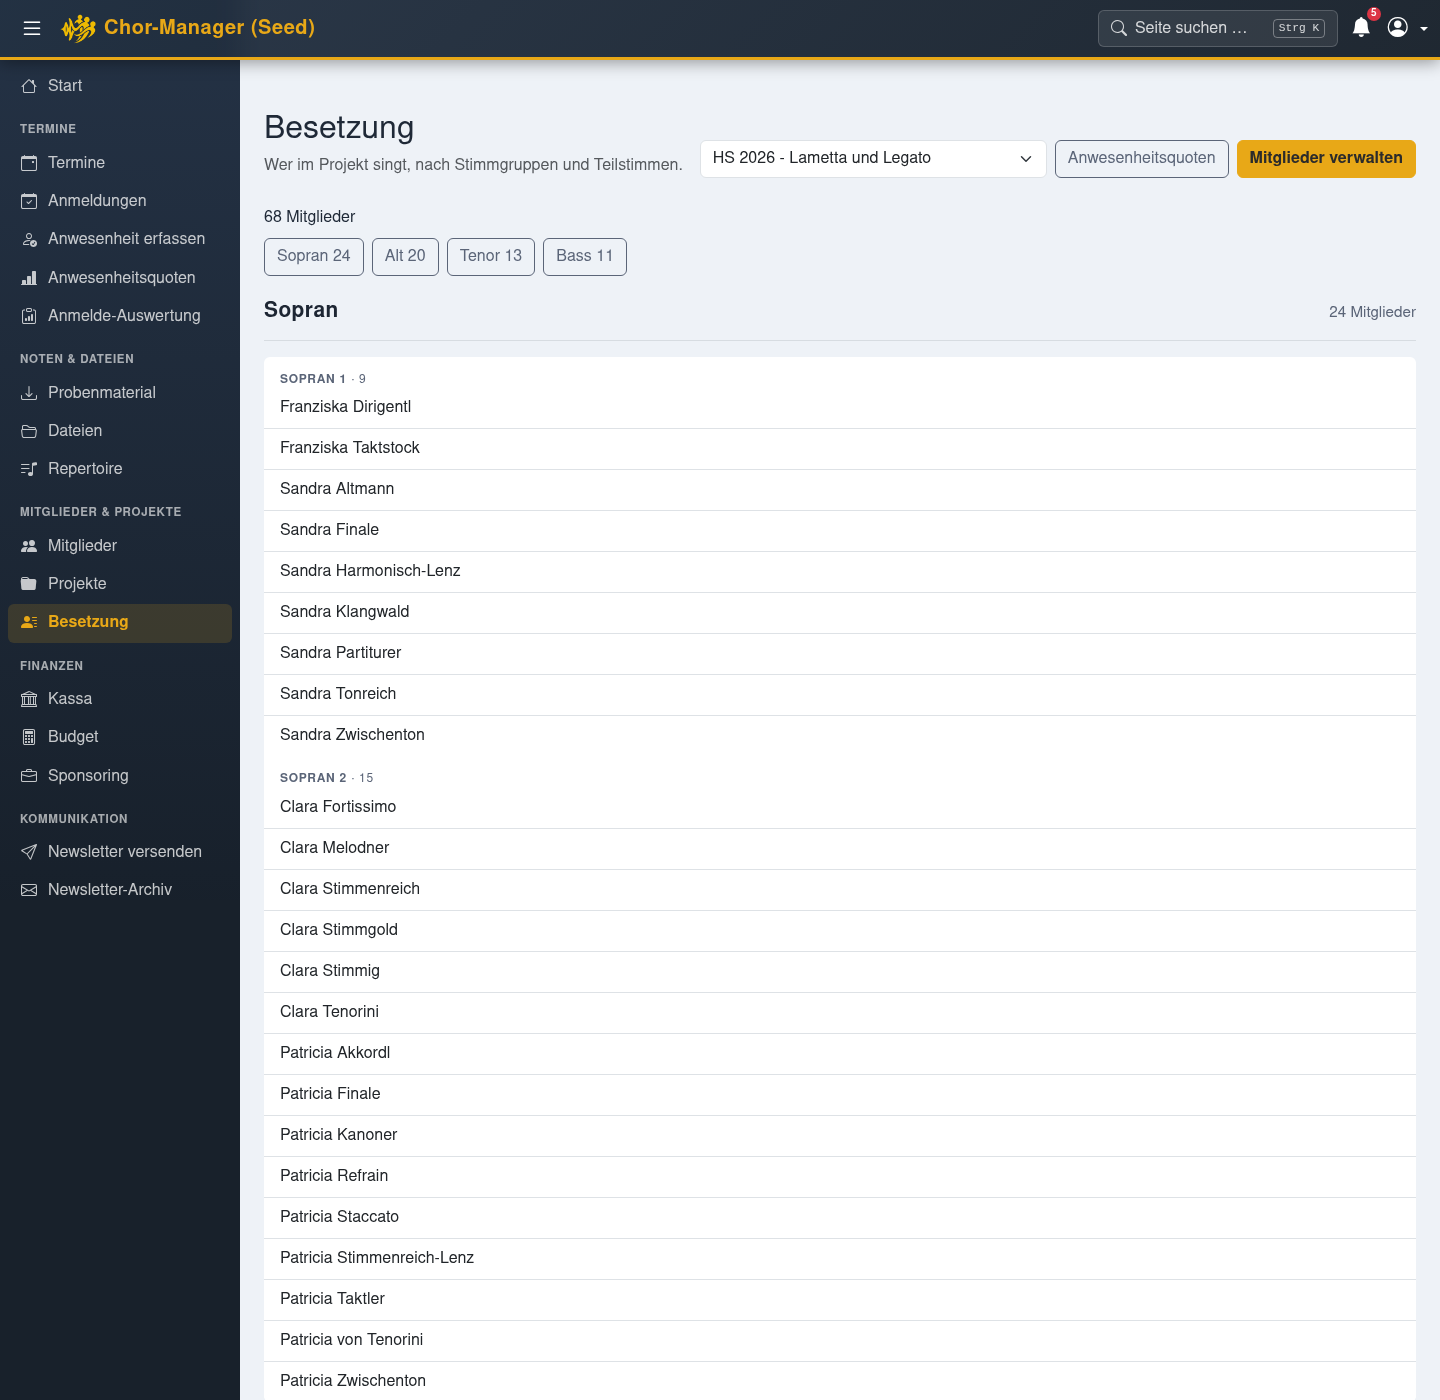
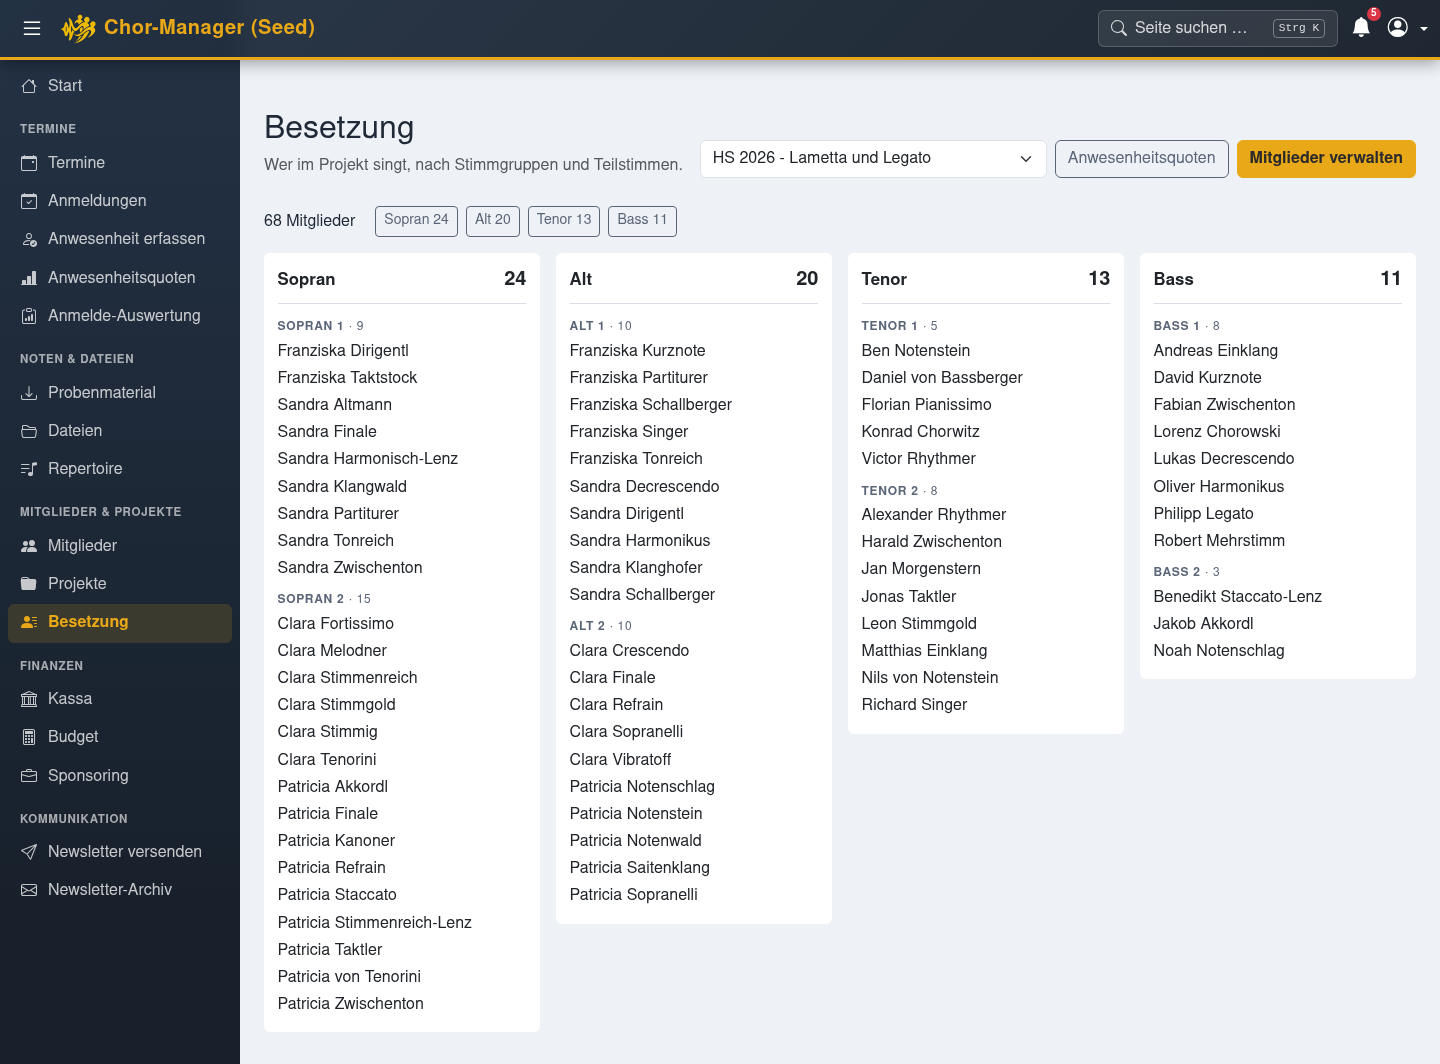
feat(evaluations): Besetzung als Plan mit einer Spalte je Stimmgruppe
Die Besetzung stapelte die Stimmgruppen untereinander, jeder Name war eine
gerahmte Listenzeile von rund 48 px. Bei 68 Mitgliedern im Seed-Projekt
war das eine lange Scroll-Strecke, und die Frage, die die Seite
beantworten soll - wie ist der Chor besetzt, stimmt die Balance? - ließ
sich nur durch Hinunterscrollen und Mitzählen beantworten.

Jetzt ist die Seite ein Besetzungsplan: jede Stimmgruppe eine Spalte, am
Laptop Sopran, Alt, Tenor und Bass nebeneinander (vier Spalten zu 276 px
auf 1152 px Inhaltsbreite, im Browser gemessen), am Telefon zwei. Der
Spaltenkopf trägt den Namen und groß die Anzahl, die Namen stehen als
dichte Liste ohne Trennrahmen, Teilstimmen bleiben kleine
Zwischenüberschriften. Hat eine Stimmgruppe keine Teilstimmen, entfällt
die einzige Überschrift "Ohne Teilstimme". Summe und Sprunglinks stehen
in einer Zeile über dem Plan.

Das Raster nutzt auto-fit statt auto-fill: Mit auto-fill blieb neben den
vier Spalten eine leere fünfte Spur stehen. Verworfen wurde eine feste
Vierteilung - Chöre mit "Ohne Stimmgruppe" oder weiteren Gruppen hätten
dann eine umbrechende fünfte Spalte bekommen.

Hilfe: evaluations-project-members.md beschreibt den Plan; dabei
korrigiert, dass die Projektauswahl sofort wechselt (die Hilfe nannte
noch "Anzeigen", das es nur ohne JavaScript gibt). Das Screenshot-Skript
wartet auf .cast-board statt auf die alte Tabelle, die Bilder 01 und 04
sind neu aufgenommen.

Neu in tests/Feature/ProjectMembersVoicingFeatureTest:
[…]

diff --git a/public/css/style.css b/public/css/style.css
@@ -3464,6 +3464,75 @@ a:hover {
     scroll-margin-top: 5rem;
 }
 
+/* Besetzung: Summe und Sprunglinks in einer Zeile über dem Plan. */
+.cast-summary {
+    display: flex;
+    flex-wrap: wrap;
+    align-items: center;
+    gap: 0.5rem 1.25rem;
+    margin-bottom: 1rem;
+}
+
+/* Besetzungsplan: Stimmgruppen als Spalten. Am Laptop stehen Sopran, Alt, Tenor und Bass
+   nebeneinander, am Telefon zwei Spalten; Spalten sind so hoch wie ihr Inhalt. */
+.cast-board {
+    display: grid;
+    grid-template-columns: repeat(auto-fit, minmax(min(100%, 9.5rem), 1fr));
+    align-items: start;
+    gap: 0.75rem;
+}
+
+@media (min-width: 768px) {
+    .cast-board {
+        grid-template-columns: repeat(auto-fit, minmax(13rem, 1fr));
+        gap: 1rem;
+    }
+}
+
+.cast-column {
+    padding: 0.75rem 0.85rem 0.85rem;
+}
+
+.cast-column-head {
+    display: flex;
+    align-items: baseline;
+    justify-content: space-between;
+    gap: 0.5rem;
+    padding-bottom: 0.5rem;
+    margin-bottom: 0.35rem;
+    border-bottom: 1px solid var(--theme-border);
+}
+
+.cast-column-title {
+    margin: 0;
+    font-size: 1.05rem;
+    font-weight: 600;
+    overflow-wrap: anywhere;
+}
+
+/* Die Kopfzahl ist das Ergebnis der Spalte: Sie trägt, der Name daneben benennt. */
+.cast-column-count {
+    font-size: 1.25rem;
+    font-weight: 700;
+    font-variant-numeric: tabular-nums;
+}
+
+.cast-sub-voice {
+    margin: 0.65rem 0 0.15rem;
+}
+
+.cast-names li {
+    padding: 0.15rem 0;
+    line-height: 1.4;
+    overflow-wrap: anywhere;
+}
+
+.cast-names .badge {
+    margin-left: 0.25rem;
+    font-size: 0.7rem;
+    vertical-align: 0.1em;
+}
+
 /* Telefon und Touch: Auswahlfeld und Knöpfe im Seitenkopf erreichen 44 px. */
 @media (max-width: 575.98px), (pointer: coarse) {
     .page-header .page-actions .form-select,

diff --git a/help/evaluations/scripts/screenshot.js b/help/evaluations/scripts/screenshot.js
@@ -82,9 +82,9 @@ async function main() {
         await page.locator('table').first().waitFor({ state: 'visible' });
         await shotCapped(page, '03-registrations-past');
 
-        // 4. Projektmitglieder nach Stimmgruppen
+        // 4. Besetzung: Plan mit einer Spalte je Stimmgruppe
         await page.goto(`${BASE_URL}/evaluations/project-members`, { waitUntil: 'networkidle' });
-        await page.locator('.table-shell').first().waitFor({ state: 'visible' });
+        await page.locator('.cast-board').waitFor({ state: 'visible' });
         await shotCapped(page, '04-project-members');
 
         console.log('Fertig: alle Auswertungs-Screenshots erstellt.');

diff --git a/tests/Feature/ProjectMembersVoicingFeatureTest.php b/tests/Feature/ProjectMembersVoicingFeatureTest.php
@@ -210,6 +210,39 @@ class ProjectMembersVoicingFeatureTest extends TestCase
         );
     }
 
+    /**
+     * Besetzungsplan statt Endlosliste: Die Stimmgruppen stehen als Spalten
+     * nebeneinander, damit die Balance auf einen Blick zu sehen ist. Vorher war
+     * jeder Name eine gerahmte Listenzeile und die Gruppen standen untereinander.
+     */
+    public function testVoiceGroupsSitSideBySideAsACastBoard(): void
+    {
+        $source = $this->template();
+
+        $this->assertStringContainsString('class="cast-board"', $source);
+        $this->assertStringContainsString('cast-names', $source);
+        $this->assertStringNotContainsString('list-group-item', $source, 'Namen ohne gerahmte Einzelzeilen.');
+
+        $css = file_get_contents(dirname(__DIR__, 2) . '/public/css/style.css');
+        $this->assertIsString($css);
+        // Die Grundregel selbst, nicht nur die Laptop-Variante: Auch am Telefon stehen
+        // die Spalten nebeneinander, sobald zwei hineinpassen.
+        $this->assertSame(1, preg_match('/^\.cast-board\s*\{([^}]*)\}/m', $css, $base));
+        $this->assertMatchesRegularExpression('/grid-template-columns:\s*repeat\(auto-fit/', $base[1]);
+    }
+
+    /**
+     * Hat eine Stimmgruppe gar keine Teilstimmen, ist "Ohne Teilstimme" als einzige
+     * Zwischenüberschrift nur eine Zeile Rauschen.
+     */
+    public function testASoleWithoutSubVoiceLabelIsOmitted(): void
+    {
+        $this->assertMatchesRegularExpression(
+            '/sub_voices\|length > 1 or sub_voice != "_no_sub_voice"/',
+            $this->template()
+        );
+    }
+
     public function testOutlineSecondaryButtonKeepsReadableContrastOnThePageBackground(): void
     {
         $css = file_get_contents(dirname(__DIR__, 2) . '/public/css/style.css');

diff --git a/help/evaluations/docs/evaluations-project-members.md b/help/evaluations/docs/evaluations-project-members.md
@@ -13,15 +13,22 @@ nach Teilstimme.
 
 Klickpfad: **Mitglieder & Projekte → Besetzung**.
 
-Oben rechts wählst du das Projekt und bestätigst mit **Anzeigen**. Darunter steht die
-Gesamtzahl der Mitglieder mit der Zahl je Stimmgruppe; ein Klick auf eine Stimmgruppe
-springt direkt zu ihr. Die Stimmgruppen folgen in ihrer festen Reihenfolge — Sopran, Alt,
-Tenor, Bass —, innerhalb jeder Gruppe stehen die Teilstimmen mit der Anzahl ihrer
-Mitglieder.
+Oben rechts wählst du das Projekt; die Seite wechselt sofort. Darunter steht die
+Gesamtzahl der Mitglieder mit der Zahl je Stimmgruppe.
 
-![Projektmitglieder nach Stimmgruppen](images/evaluations/04-project-members.png)
+Die Besetzung selbst ist ein Plan in Spalten: Jede Stimmgruppe hat eine Spalte, in ihrer
+festen Reihenfolge — Sopran, Alt, Tenor, Bass. Am Laptop stehen sie nebeneinander, so
+siehst du die Balance des Chors auf einen Blick; die große Zahl im Spaltenkopf ist die
+Anzahl der Stimmgruppe. Am Handy stehen zwei Spalten nebeneinander, ein Klick auf eine
+Stimmgruppe oben springt direkt zu ihrer Spalte.
 
-Archivierte Mitglieder bleiben mit dem Hinweis **Archiviert** stehen, damit eine
+Innerhalb einer Spalte stehen die Teilstimmen als kleine Zwischenüberschrift mit der
+Anzahl ihrer Mitglieder, darunter die Namen. Hat eine Stimmgruppe keine Teilstimmen,
+folgen die Namen direkt dem Spaltenkopf.
+
+![Besetzung als Plan mit einer Spalte je Stimmgruppe](images/evaluations/04-project-members.png)
+
+Archivierte Mitglieder bleiben grau mit dem Hinweis **Archiviert** stehen, damit eine
 vergangene Besetzung nachvollziehbar bleibt.
 
 **Anwesenheitsquoten** neben der Projektauswahl wechselt mit demselben Projekt in die
@@ -43,5 +50,6 @@ Projekts. Fehlt die Schaltfläche, fehlt das Recht dazu.
   wende dich an den Administrator.
 - **Jemand steht unter der falschen Stimme.** Die Gruppierung kommt aus der Stimmgruppe
   des Mitglieds, nicht aus dem Projekt — korrigiert wird sie in der Mitgliederverwaltung.
-- **Mitglied ohne Teilstimme.** Es erscheint in seiner Stimmgruppe unter **Ohne
-  Teilstimme**. Die Teilstimme wird beim Mitglied gesetzt.
+- **Mitglied ohne Teilstimme.** Hat seine Stimmgruppe Teilstimmen, erscheint es dort unter
+  **Ohne Teilstimme**; sonst steht es ohne Zwischenüberschrift in der Spalte. Die
+  Teilstimme wird beim Mitglied gesetzt.
